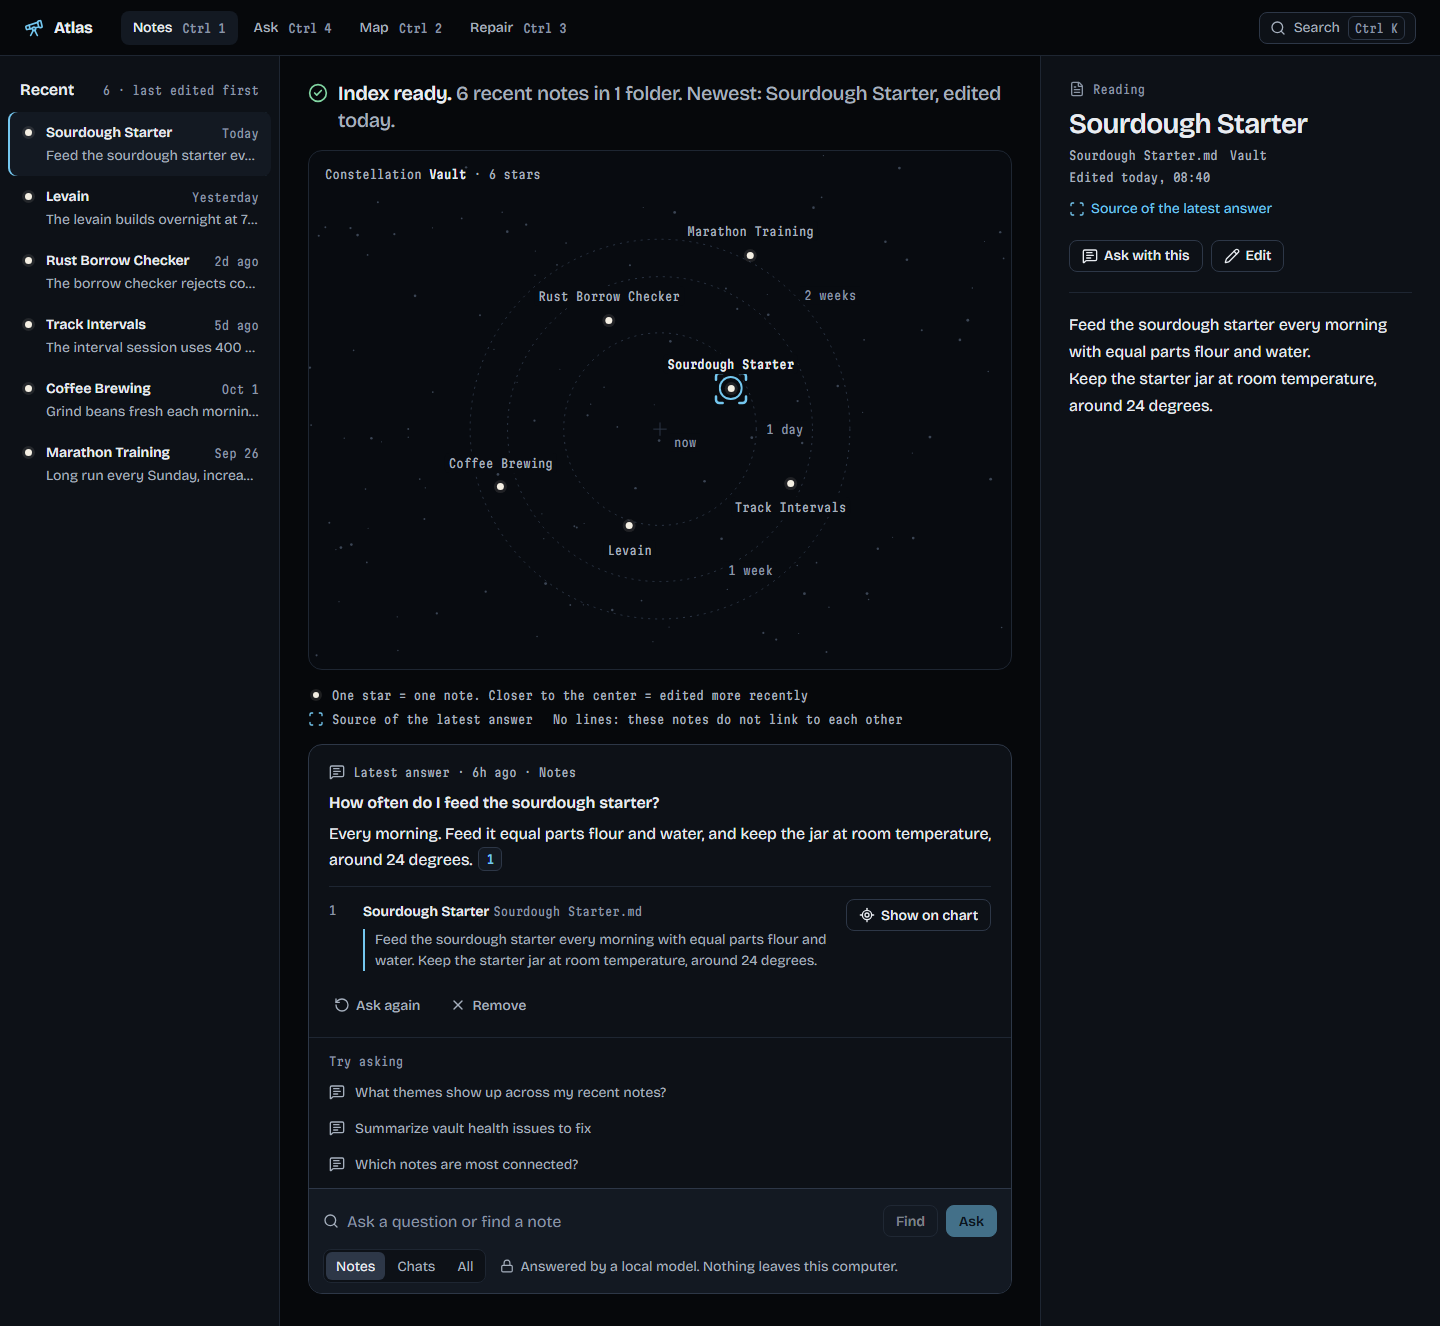
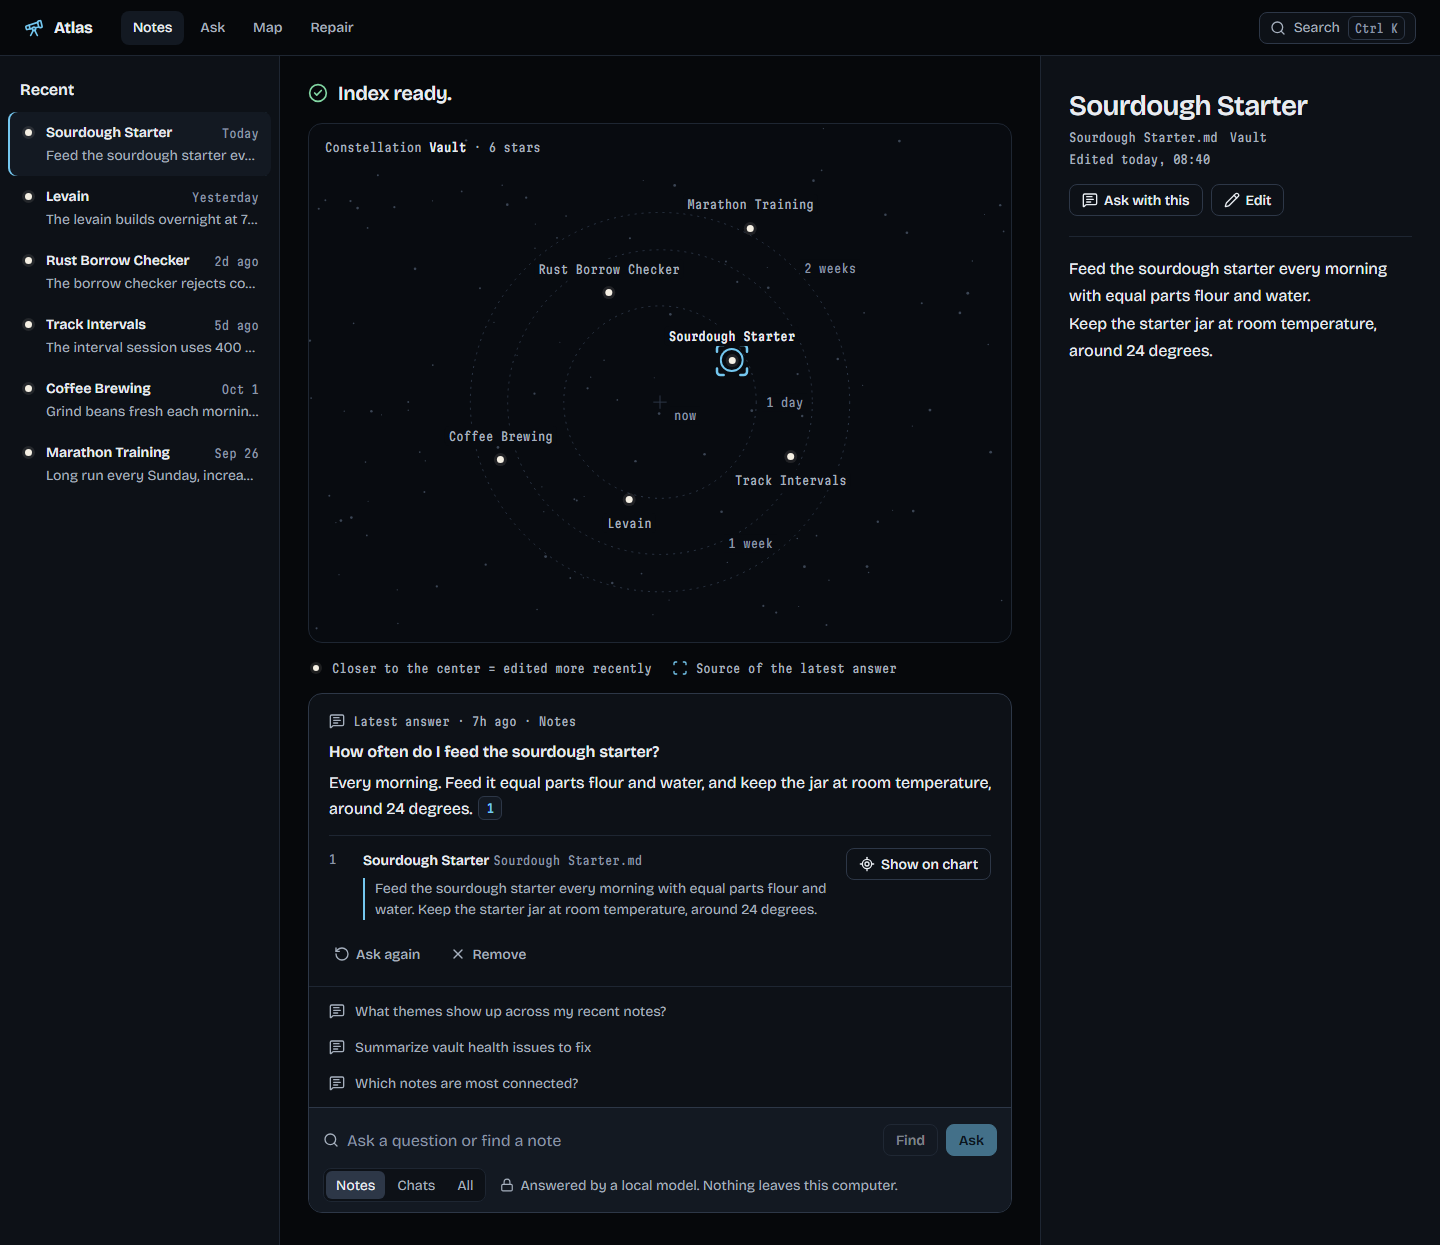
Trim subtext that restated headings or explained the obvious
Removed: the second half of the Notes status line, the Recent count and
sort hint, the Reading kicker, the reading pane's source line (the bracket
and its legend key already say it), "One star = one note" and the
"No lines" legend line, the "Try asking" label, the Ask tab's scope hint,
the tab shortcut hints (still in tooltips), the palette's Esc hint and view
descriptions, and the word Repair beside the issue pill.

diff --git a/frontend/src/components/workspace/NoteInspector.tsx b/frontend/src/components/workspace/NoteInspector.tsx
@@ -1,7 +1,7 @@
 "use client";
 
 import { useEffect, useId, useState } from "react";
-import { CircleAlert, FileText, MessageSquareText, Pencil, Scan, TriangleAlert } from "lucide-react";
+import { CircleAlert, FileText, MessageSquareText, Pencil, TriangleAlert } from "lucide-react";
 import { ApiError, fetchNote, folderCluster, saveNote } from "@/lib/api";
 import { editedPhrase, relativeDay } from "@/lib/format";
 import { noteBlocks } from "@/lib/noteText";
@@ -25,14 +25,12 @@ type Props = {
   noteId?: string | null;
   /** last edit time, when the caller knows it (the Recent list does) */
   updatedAt?: string;
-  /** the open note is a source of the answer on screen */
-  isAnswerSource?: boolean;
   repairIssue?: HealthIssue | null;
   onClose?: () => void;
 };
 
 /** The reading pane: title once, file, folder and edit time, then the note. Edit and save stay here. */
-export function NoteInspector({ noteId, updatedAt, isAnswerSource = false, repairIssue = null, onClose }: Props) {
+export function NoteInspector({ noteId, updatedAt, repairIssue = null, onClose }: Props) {
   const { selectedNoteId, setAskContextId, setView } = useWorkspace();
   const id = noteId === undefined ? selectedNoteId : noteId;
   const [loadedId, setLoadedId] = useState<string | null>(null);
@@ -82,12 +80,6 @@ export function NoteInspector({ noteId, updatedAt, isAnswerSource = false, repai
     return (
       <div className="inspector">
         <div className="inspector-head">
-          <p className="kicker mono">
-            <span>
-              <FileText className="icon" aria-hidden strokeWidth={2} />
-              Reading
-            </span>
-          </p>
           <div className="pane-msg" style={{ margin: "16px 0" }}>
             <FileText aria-hidden strokeWidth={2} />
             <strong>Nothing open.</strong>
@@ -121,17 +113,13 @@ export function NoteInspector({ noteId, updatedAt, isAnswerSource = false, repai
   return (
     <article className="inspector" aria-labelledby={headingId} aria-busy={loading || undefined}>
       <div className="inspector-head">
-        <p className="kicker mono">
-          <span>
-            <FileText className="icon" aria-hidden strokeWidth={2} />
-            Reading
-          </span>
-          {onClose && (
-            <button type="button" className="btn btn-quiet" onClick={onClose}>
+        {onClose && (
+          <p className="kicker">
+            <button type="button" className="btn btn-quiet" onClick={onClose} style={{ marginLeft: "auto" }}>
               Close
             </button>
-          )}
-        </p>
+          </p>
+        )}
         {loading ? (
           <>
             <h2 id={headingId} className="sr-only">
@@ -148,12 +136,6 @@ export function NoteInspector({ noteId, updatedAt, isAnswerSource = false, repai
               <span>{folderCluster(id)}</span>
               {updatedAt && <span className="num">{editedPhrase(updatedAt)}</span>}
             </p>
-            {isAnswerSource && (
-              <p className="cited">
-                <Scan className="icon" aria-hidden strokeWidth={2} />
-                Source of the latest answer
-              </p>
-            )}
           </>
         )}
         <div className="reader-actions">
@@ -218,7 +200,6 @@ export function NoteInspector({ noteId, updatedAt, isAnswerSource = false, repai
                 <span className={`status-pill ${kindClass[repairIssue.kind]}`}>
                   {kindLabel[repairIssue.kind]}
                 </span>
-                <span className="text-[14px] font-semibold">Repair</span>
               </div>
               <p className="mt-1.5 text-[14px] leading-snug">{repairIssue.detail}</p>
               <p className="mt-1 text-[14px] text-accent">{repairIssue.action}</p>

diff --git a/frontend/src/components/workspace/NotesView.tsx b/frontend/src/components/workspace/NotesView.tsx
@@ -111,7 +111,7 @@ export function NotesView() {
         onPick={(id) => pick(id)}
       />
       <div className="center">
-        <Lead recent={recent} notes={notes} folders={chart.constellations.length} nowMs={nowMs} ready={ready} />
+        <Lead recent={recent} notes={notes} ready={ready} />
         <div ref={skyRef} style={{ scrollMarginTop: 72 }}>
           <StarChart
             state={chartState}
@@ -144,7 +144,6 @@ export function NotesView() {
           <NoteInspector
             noteId={openId}
             updatedAt={openNote?.updatedAt}
-            isAnswerSource={openId !== null && sourceIds.has(openId)}
           />
         )}
       </section>
@@ -155,20 +154,16 @@ export function NotesView() {
 function Lead({
   recent,
   notes,
-  folders,
-  nowMs,
   ready,
 }: {
   recent: Recent;
   notes: Note[];
-  folders: number;
-  nowMs: number;
   ready: ReturnType<typeof useWorkspace>["ready"];
 }) {
   if (recent.status === "loading") {
     return (
       <div aria-busy="true" aria-label="Loading">
-        <span className="sk" style={{ width: "62%", height: 26 }} />
+        <span className="sk" style={{ width: "24%", height: 26 }} />
       </div>
     );
   }
@@ -188,21 +183,14 @@ function Lead({
   }
   const status = indexStatus(ready);
   const Icon = status.tone === "ok" ? CircleCheck : status.tone === "bad" ? CircleAlert : Loader;
-  const newest = notes[0];
   return (
     <h1 className="lead">
       <span title={status.detail} style={{ display: "flex" }}>
         <Icon className={status.tone === "ok" ? "ok" : status.tone === "bad" ? "bad" : "wait"} aria-hidden strokeWidth={2} />
       </span>
       <span>
-        {status.text}.{" "}
-        <span className="soft">
-          {newest
-            ? `${notes.length} recent ${notes.length === 1 ? "note" : "notes"} in ${folders} ${
-                folders === 1 ? "folder" : "folders"
-              }. Newest: ${newest.title}, edited ${relativeDay(newest.updatedAt, nowMs).toLowerCase()}.`
-            : "No notes indexed yet."}
-        </span>
+        {status.text}.
+        {notes.length === 0 && <span className="soft"> No notes indexed yet.</span>}
       </span>
     </h1>
   );
@@ -219,12 +207,10 @@ function RecentList({
   nowMs: number;
   onPick: (id: string) => void;
 }) {
-  const count = recent.status === "ready" ? recent.notes.length : 0;
   return (
     <section className="recent" id="recent" aria-labelledby="recent-h" style={{ scrollMarginTop: 56 }}>
       <div className="pane-head">
         <h2 id="recent-h">Recent</h2>
-        {count > 0 && <span className="mono num">{count} · last edited first</span>}
       </div>
       {recent.status === "loading" ? (
         <ul className="rows" aria-busy="true" aria-label="Loading recent notes">
@@ -277,13 +263,7 @@ function ReaderSkeleton() {
   return (
     <div className="inspector" aria-busy="true" aria-label="Loading the reading pane">
       <div className="inspector-head">
-        <p className="kicker mono">
-          <span>
-            <FileText className="icon" aria-hidden strokeWidth={2} />
-            Reading
-          </span>
-        </p>
-        <span className="sk" style={{ width: "70%", height: 30, marginTop: 14 }} />
+        <span className="sk" style={{ width: "70%", height: 30, marginTop: 4 }} />
         <span className="sk" style={{ width: "55%", height: 12, marginTop: 12 }} />
         <span className="sk" style={{ width: "100%", marginTop: 40 }} />
         <span className="sk" style={{ width: "92%", marginTop: 10 }} />

diff --git a/frontend/src/components/workspace/AskView.tsx b/frontend/src/components/workspace/AskView.tsx
@@ -3,7 +3,6 @@
 import { useCallback, useRef, useState } from "react";
 import { CircleAlert, FileText, MessageSquareText } from "lucide-react";
 import { composePrompts } from "@/lib/api";
-import { SCOPES } from "@/lib/ask";
 import { useWorkspace } from "./context";
 import { AnswerBlock, AskComposer } from "./AskParts";
 import { AskHistory, type AskHistoryEntry } from "./AskHistory";
@@ -46,14 +45,11 @@ export function AskView() {
     [ask, askNow],
   );
 
-  const hint = SCOPES.find((s) => s.id === scope)?.hint;
-
   return (
     <div className="min-h-0 w-full flex-1 overflow-y-auto">
       <div className="mx-auto flex w-full max-w-3xl flex-col gap-5 px-5 py-6">
         <header>
           <h1 className="m-0 text-[20px] font-semibold tracking-[-0.015em]">Ask</h1>
-          <p className="mono mt-1 mb-0 text-muted">Search in: {hint}</p>
         </header>
 
         <section className="dock" aria-label="Ask the vault">
@@ -116,8 +112,7 @@ export function AskView() {
 
         <div className="dock">
           <div className="cmds" style={{ borderTop: 0 }}>
-            <p className="cmds-label mono">Try asking</p>
-            <ul style={{ listStyle: "none", margin: 0, padding: 0 }}>
+            <ul aria-label="Suggested questions" style={{ listStyle: "none", margin: 0, padding: 0 }}>
               {composePrompts.map((p) => (
                 <li key={p}>
                   <button

diff --git a/frontend/src/components/workspace/StarChart.tsx b/frontend/src/components/workspace/StarChart.tsx
@@ -167,7 +167,7 @@ export function ChartLegend({
         <span className="key">
           <span className="dot" style={{ width: 6, height: 6 }} />
         </span>
-        One star = one note. Closer to the center = edited more recently
+        Closer to the center = edited more recently
       </li>
       {chart.constellations.length > 1 && <li>Constellation = folder</li>}
       {sourceOnChart && (
@@ -178,17 +178,14 @@ export function ChartLegend({
           Source of the latest answer
         </li>
       )}
-      {linksKnown &&
-        (chart.lines.length > 0 ? (
-          <li>
-            <span className="key">
-              <span className="line" />
-            </span>
-            Line = one note links to the other
-          </li>
-        ) : chart.stars.length > 1 ? (
-          <li>No lines: these notes do not link to each other</li>
-        ) : null)}
+      {linksKnown && chart.lines.length > 0 && (
+        <li>
+          <span className="key">
+            <span className="line" />
+          </span>
+          Line = one note links to the other
+        </li>
+      )}
     </ul>
   );
 }

diff --git a/frontend/src/components/workspace/CommandBar.tsx b/frontend/src/components/workspace/CommandBar.tsx
@@ -130,7 +130,6 @@ function Palette({ onClose }: { onClose: () => void }) {
               onChange={(e) => setQ(e.target.value)}
               onKeyDown={onKeyDown}
             />
-            <span className="kbd">Esc</span>
           </div>
         </div>
         <ul id="atlas-search-results" role="listbox" aria-label="Results" className="palette-list">
@@ -145,7 +144,6 @@ function Palette({ onClose }: { onClose: () => void }) {
               >
                 <ArrowRight className="icon" aria-hidden strokeWidth={2} />
                 <span>Go to {VIEW_META[id].label}</span>
-                <span className="go mono">{VIEW_META[id].description}</span>
               </button>
             </li>
           ))}

diff --git a/frontend/src/components/workspace/AskDock.tsx b/frontend/src/components/workspace/AskDock.tsx
@@ -210,8 +210,7 @@ export function AskDock({
 
       {find.status === "idle" ? (
         <div className="cmds">
-          <p className="cmds-label mono">Try asking</p>
-          <ul style={{ listStyle: "none", margin: 0, padding: 0 }}>
+          <ul aria-label="Suggested questions" style={{ listStyle: "none", margin: 0, padding: 0 }}>
             {composePrompts.map((p) => (
               <li key={p}>
                 <button

diff --git a/frontend/src/app/globals.css b/frontend/src/app/globals.css
@@ -1258,15 +1258,6 @@ a {
   overflow-wrap: anywhere;
 }
 
-.cited {
-  display: inline-flex;
-  align-items: center;
-  gap: 6px;
-  margin: 12px 0 0;
-  color: var(--accent);
-  font-size: 14px;
-}
-
 .reader-actions {
   display: flex;
   flex-wrap: wrap;

diff --git a/frontend/src/components/workspace/TopBar.tsx b/frontend/src/components/workspace/TopBar.tsx
@@ -33,7 +33,6 @@ export function TopBar() {
                   onClick={() => setView(id)}
                 >
                   {meta.label}
-                  <kbd>Ctrl {meta.shortcut}</kbd>
                 </button>
               </li>
             );

diff --git a/DESIGN.md b/DESIGN.md
@@ -51,10 +51,11 @@ Dark only, by Bryan's choice: `color-scheme: dark`, tokens defined once on `:roo
 ## Components
 - The app keeps its own small component set: CSS classes in `globals.css` plus Tailwind utilities, and React components in `frontend/src/components/workspace/`. It does not use shadcn/ui; adding it would be a new dependency for a handful of parts.
 - Buttons: primary = filled accent (`.btn-primary`, one per area: Ask, Save), secondary = outline (`.btn`), quiet = text only (`.btn-quiet`). Destructive actions use words ("Remove", "Clear history") and a confirm where they delete many things.
-- Top bar: brand, four tabs (Notes, Ask, Map, Repair, each with its Ctrl shortcut), the index status outside Notes, and the Ctrl K search button.
-- Star chart (`StarChart.tsx`, layout in `lib/starChart.ts`): each recent note is a star. Distance from the center = time since the last edit, on the same square-root scale as the dashed age rings. All stars are one size: sizing by length would mean reading every recent note, and on a OneDrive vault a read can force a download. Constellation = folder (`folderCluster()`), one wedge per folder. Lines only where the graph data has a link. The angle inside a constellation means nothing. A bracket marks the latest answer's source. The legend only states what is true of what is drawn.
+- Top bar: brand, four tabs (Notes, Ask, Map, Repair; each tab's Ctrl shortcut is in its tooltip), the index status outside Notes, and the Ctrl K search button.
+- Star chart (`StarChart.tsx`, layout in `lib/starChart.ts`): each recent note is a star. Distance from the center = time since the last edit, on the same square-root scale as the dashed age rings. All stars are one size: sizing by length would mean reading every recent note, and on a OneDrive vault a read can force a download. Constellation = folder (`folderCluster()`), one wedge per folder. Lines only where the graph data has a link. The angle inside a constellation means nothing. A bracket marks the latest answer's source. The legend only states what is true of what is drawn, and only what you need to read it (no line about missing links).
 - Ask dock and Ask view: the answer above, numbered citations ([1]) that point to a source list with the note title, file name and quoted text, then suggested questions or Find results, then the input with the scope choice and the privacy line.
 - Reading pane: title once, file name, folder and edit time in mono, then the note with headings rendered. Edit and Save stay here.
+- Text: content stays, text about the content goes. No eyebrow labels over headings, no line under a heading that restates it, no hints for obvious controls. Keep status words, error/empty/loading messages, labels, and the "Nothing leaves this computer" line.
 - Status words: Broken / Orphan / Tagless pills always carry the word; color is extra.
 - Cards: no cards inside cards. The chart, the dock and the reading pane are flat panels side by side.
 
